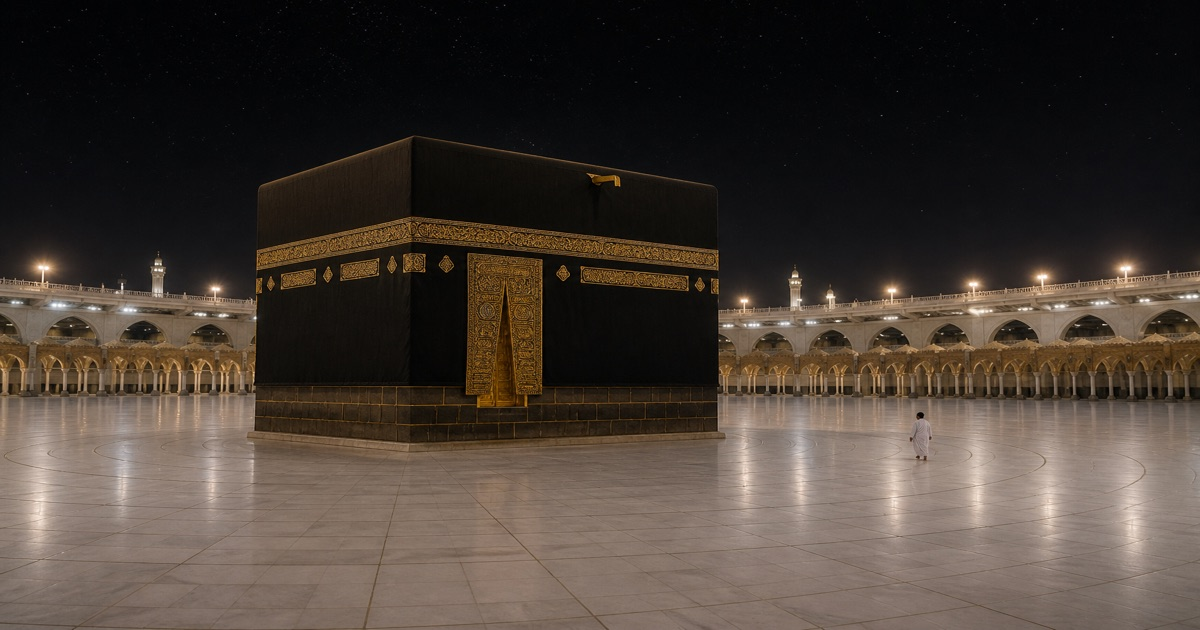
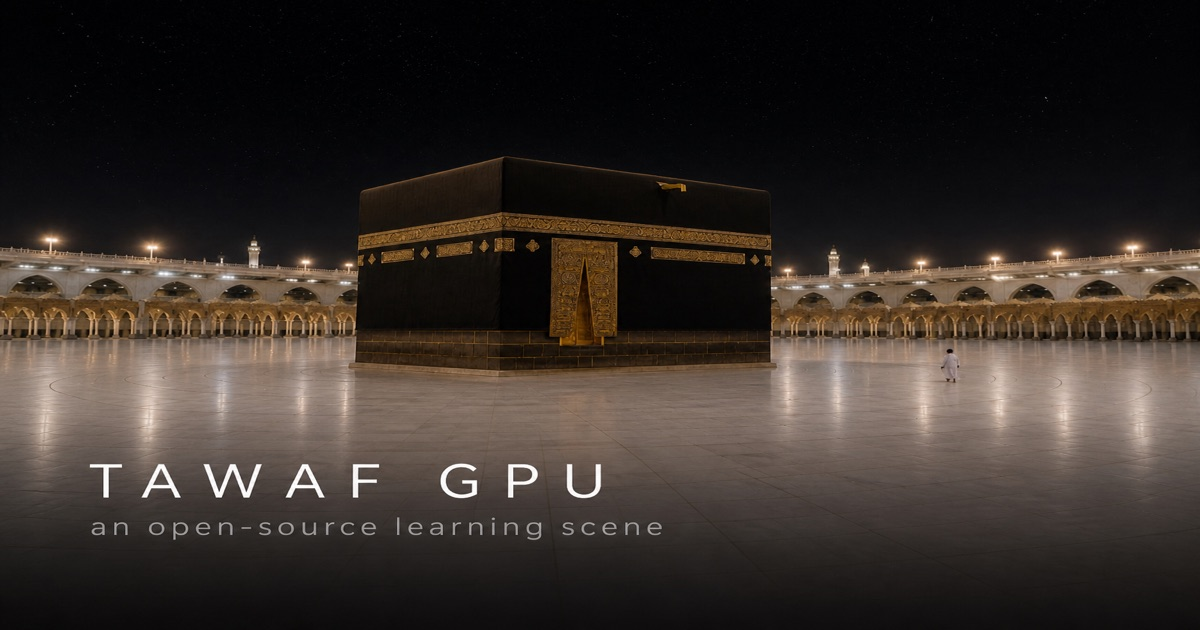
Update project branding to "Tawaf GPU" across multiple files
Revise index.html, readme.md, and site.webmanifest to reflect the new project name "Tawaf GPU". Update metadata for improved SEO and social sharing. Enhance the LoadingScreen component by adding a Sketchfab icon for 3D assets, improving user engagement and clarity.

diff --git a/index.html b/index.html
@@ -3,7 +3,7 @@
 <head>
     <meta charset="UTF-8">
     <meta name="viewport" content="width=device-width, initial-scale=1.0, maximum-scale=1.0, user-scalable=0, viewport-fit=cover">
-    <title>Tawaf — an open-source learning scene</title>
+    <title>Tawaf GPU — an open-source learning scene</title>
     <meta name="description" content="Walk the mataf around the Kaaba in the browser. An open-source WebGPU demo for learning tawaf, Hajj, and Umrah — and a starting point for interactive 3D lessons.">
     <meta name="author" content="Uzair">
     <meta name="theme-color" content="#000000">
@@ -15,26 +15,26 @@
     <link rel="manifest" href="./site.webmanifest">
     <meta name="apple-mobile-web-app-capable" content="yes">
     <meta name="apple-mobile-web-app-status-bar-style" content="black-translucent">
-    <meta name="apple-mobile-web-app-title" content="Tawaf">
+    <meta name="apple-mobile-web-app-title" content="Tawaf GPU">
     <meta name="mobile-web-app-capable" content="yes">
-    <meta name="application-name" content="Tawaf">
+    <meta name="application-name" content="Tawaf GPU">
 
     <meta property="og:type" content="website">
-    <meta property="og:site_name" content="Tawaf">
-    <meta property="og:title" content="Tawaf — an open-source learning scene">
+    <meta property="og:site_name" content="Tawaf GPU">
+    <meta property="og:title" content="Tawaf GPU — an open-source learning scene">
     <meta property="og:description" content="Walk the mataf around the Kaaba in the browser. Learn tawaf as a spatial lesson, or fork the WebGPU scene and build your own.">
     <meta property="og:image" content="./og.jpg">
     <meta property="og:image:type" content="image/jpeg">
     <meta property="og:image:width" content="1200">
     <meta property="og:image:height" content="630">
-    <meta property="og:image:alt" content="The Kaaba on the marble mataf at night, from the Tawaf WebGPU demo">
+    <meta property="og:image:alt" content="Tawaf GPU — an open-source learning scene. The Kaaba on the marble mataf at night.">
     <meta property="og:locale" content="en_US">
 
     <meta name="twitter:card" content="summary_large_image">
-    <meta name="twitter:title" content="Tawaf — an open-source learning scene">
+    <meta name="twitter:title" content="Tawaf GPU — an open-source learning scene">
     <meta name="twitter:description" content="Walk the mataf around the Kaaba in the browser. An open-source WebGPU demo for learning tawaf, Hajj, and Umrah.">
     <meta name="twitter:image" content="./og.jpg">
-    <meta name="twitter:image:alt" content="The Kaaba on the marble mataf at night, from the Tawaf WebGPU demo">
+    <meta name="twitter:image:alt" content="Tawaf GPU — an open-source learning scene. The Kaaba on the marble mataf at night.">
 </head>
 <body>
     <div id="root"></div>

diff --git a/src/ui/LoadingScreen.tsx b/src/ui/LoadingScreen.tsx
@@ -37,6 +37,12 @@ const LinkedInIcon = () => (
     </svg>
 );
 
+const SketchfabIcon = () => (
+    <svg width="18" height="18" viewBox="0 0 24 24" fill="currentColor" aria-hidden="true">
+        <path d="M11.511 0 4.74 4.223v6.386L4.733 10.6v.007l6.778 4.219 6.77-4.219V4.223Zm0 1.353 5.64 3.513-5.64 3.518-5.647-3.518Zm-5.85 4.21 5.77 3.59v7.175l-5.77-3.59Zm12.42 0v7.175l-5.77 3.59V9.153ZM1.332 8.496l-.02 10.341 10.199 5.163.02-10.343Zm21.336 0-10.2 5.161.021 10.343 10.199-5.163Z" />
+    </svg>
+);
+
 const LINKS = [
     {
         href: 'https://github.com/ujji77/tawaf-gpu',
@@ -55,6 +61,12 @@ const LINKS = [
         label: 'Uzair',
         hint: 'author',
         icon: 'linkedin',
+    },
+    {
+        href: 'https://github.com/ujji77/tawaf-gpu#credits',
+        label: 'Sketchfab',
+        hint: '3D assets',
+        icon: 'sketchfab',
     },
 ] as const;
 
@@ -86,7 +98,7 @@ function RepoLinks({ compact }: { compact?: boolean }) {
                     onMouseEnter={(e) => { e.currentTarget.style.opacity = '1'; e.currentTarget.style.color = '#fff'; }}
                     onMouseLeave={(e) => { e.currentTarget.style.opacity = '0.9'; e.currentTarget.style.color = '#ddd'; }}
                 >
-                    {link.icon === 'linkedin' ? <LinkedInIcon /> : <GitHubIcon />}
+                    {link.icon === 'linkedin' ? <LinkedInIcon /> : link.icon === 'sketchfab' ? <SketchfabIcon /> : <GitHubIcon />}
                     <span style={{ display: 'flex', flexDirection: 'column', alignItems: 'flex-start', gap: '2px', lineHeight: 1.2 }}>
                         <span style={{ fontWeight: 600 }}>{link.label}</span>
                         <span style={{ fontSize: '0.58rem', letterSpacing: '0.04em', color: '#888', fontWeight: 400 }}>
@@ -242,10 +254,10 @@ export function LoadingScreen() {
                     {/* Title */}
                     <div style={{
                         fontSize: '1rem', fontWeight: 'bold',
-                        letterSpacing: isMobile ? '0.3rem' : '0.5rem',
+                        letterSpacing: isMobile ? '0.18rem' : '0.32rem',
                         marginBottom: isMobileLandscape ? '0.35rem' : '0.55rem',
                     }}>
-                        TAWAF
+                        TAWAF GPU
                     </div>
                     <div style={{
                         fontSize: isMobileLandscape ? '0.58rem' : '0.68rem',

diff --git a/readme.md b/readme.md
@@ -1,4 +1,4 @@
-# Tawaf
+# Tawaf GPU
 
 An open-source [WebGPU](https://developer.mozilla.org/en-US/docs/Web/API/WebGPU_API) walk around the Kaaba. You stand on the mataf, move a pilgrim through the circuit, and stop at the Black Stone, the door, Maqam Ibrahim, Hijr Ismail, and the Yemeni Corner.
 
